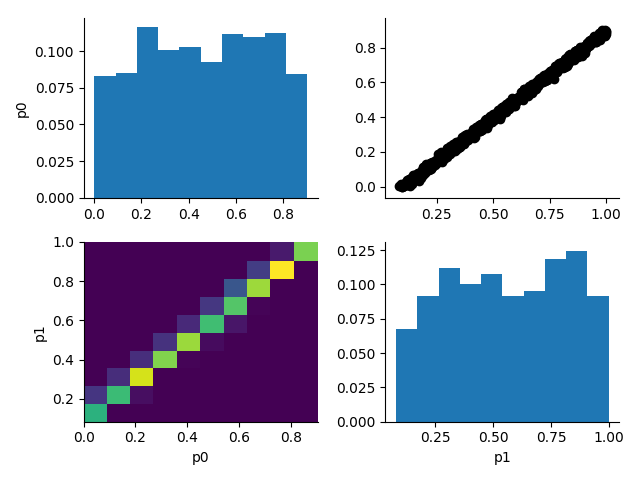
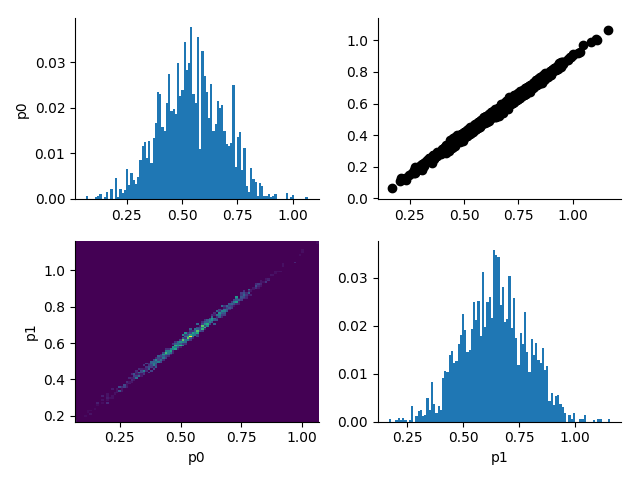
cont

diff --git a/study_abc_noise/non_id_able_priored/script_visualize.py b/study_abc_noise/non_id_able_priored/script_visualize.py
@@ -28,7 +28,7 @@ plt.savefig("samples.png")
 pyabc.visualization.plot_epsilons(histories, labels, scale="log10")
 plt.savefig("epsilons.png")
 for h, label in zip(histories, labels):
-    pyabc.visualization.plot_histogram_matrix(h)
+    pyabc.visualization.plot_histogram_matrix(h, bins=100)
     plt.savefig("hist_" + label + ".png")
     df, w = h.get_distribution()
     pyabc.visualization.plot_kde_matrix(df, w, refval=gt_par) #, limits=mv.limits)
